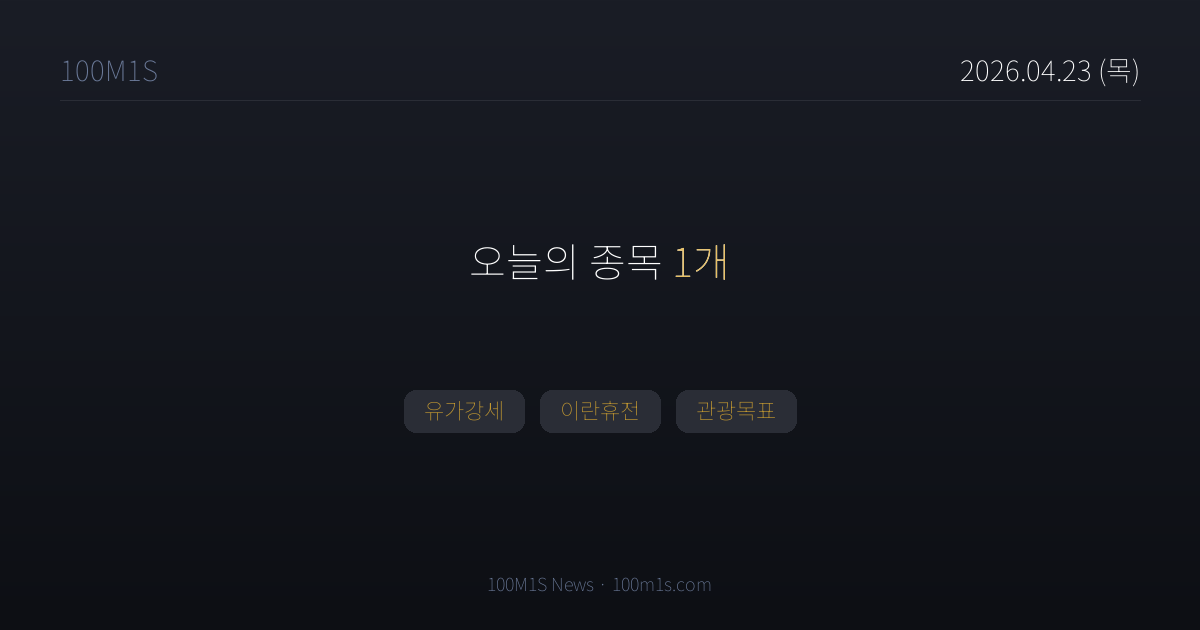
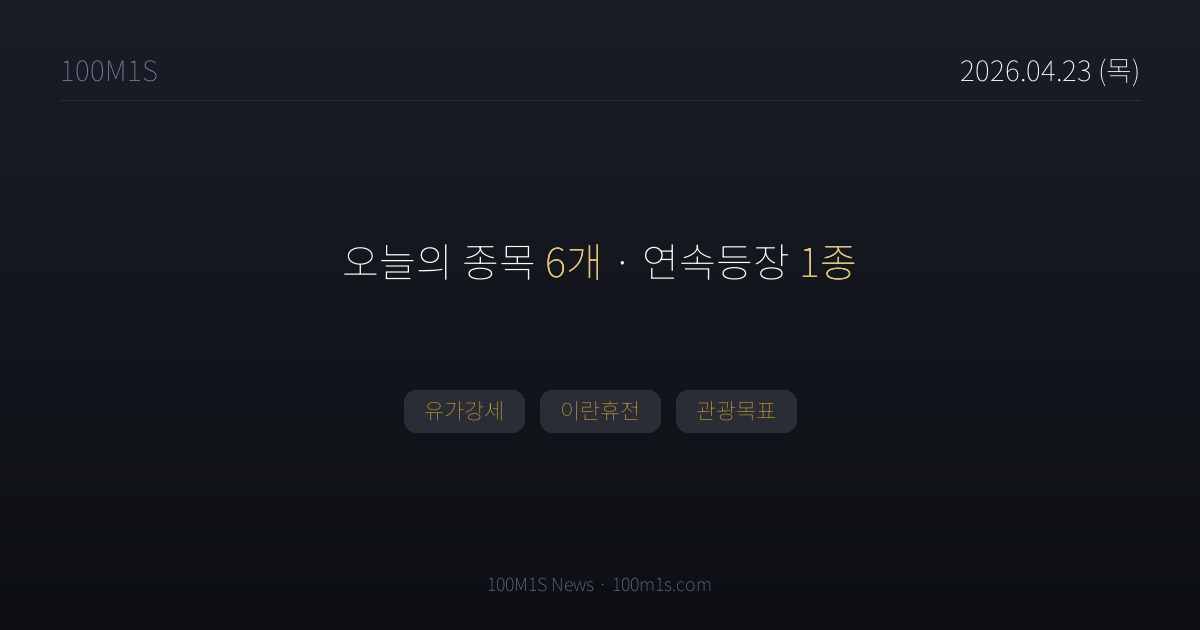
chore(news): 2026-04-23T09:23 pipeline

Changed region(s): [[0.2775, 0.3921, 0.7092, 0.4524]]

diff --git a/news/stock/2026-04-23/006910.html b/news/stock/2026-04-23/006910.html
@@ -1,0 +1,33 @@
+<!DOCTYPE html>
+<html lang="ko">
+<head>
+<meta charset="UTF-8">
+<title>보성파워텍 (006910) · 100M1S</title>
+<meta property="og:title" content="보성파워텍 (006910) · 100M1S">
+<meta property="og:description" content="구조용 금속제품, 탱크 및 증기발생기 제조업 · 오늘의 주목 종목">
+<meta property="og:image" content="https://100m1s.com/og/news/stock/2026-04-23/006910.png">
+<meta property="og:image:width" content="1200">
+<meta property="og:image:height" content="630">
+<meta property="og:url" content="https://100m1s.com/news/stock/2026-04-23/006910.html">
+<meta property="og:type" content="article">
+<meta name="twitter:card" content="summary_large_image">
+<meta name="twitter:image" content="https://100m1s.com/og/news/stock/2026-04-23/006910.png">
+<meta name="robots" content="noindex">
+<script>
+(function() {
+  var params = new URLSearchParams(location.search);
+  var date = params.get('date') || '2026-04-23';
+  var code = '006910';
+  var defaultName = '보성파워텍';
+  var rawHash = location.hash.replace(/^#/, '');
+  var nameFromHash = decodeURIComponent(rawHash).replace(/^stock-[A-Za-z0-9]+-?/, '');
+  var finalName = nameFromHash || defaultName;
+  var targetHash = '#stock-' + code + (finalName ? '-' + finalName : '');
+  location.replace('/news.html?date=' + encodeURIComponent(date) + targetHash);
+})();
+</script>
+</head>
+<body>
+<p>리다이렉트 중... <a href="/news.html?date=2026-04-23#stock-006910-보성파워텍">보성파워텍 (006910) 뉴스 보기</a></p>
+</body>
+</html>

diff --git a/news/stock/2026-04-23/006340.html b/news/stock/2026-04-23/006340.html
@@ -1,0 +1,33 @@
+<!DOCTYPE html>
+<html lang="ko">
+<head>
+<meta charset="UTF-8">
+<title>대원전선 (006340) · 100M1S</title>
+<meta property="og:title" content="대원전선 (006340) · 100M1S">
+<meta property="og:description" content="절연선 및 케이블 제조업 · 오늘의 주목 종목">
+<meta property="og:image" content="https://100m1s.com/og/news/stock/2026-04-23/006340.png">
+<meta property="og:image:width" content="1200">
+<meta property="og:image:height" content="630">
+<meta property="og:url" content="https://100m1s.com/news/stock/2026-04-23/006340.html">
+<meta property="og:type" content="article">
+<meta name="twitter:card" content="summary_large_image">
+<meta name="twitter:image" content="https://100m1s.com/og/news/stock/2026-04-23/006340.png">
+<meta name="robots" content="noindex">
+<script>
+(function() {
+  var params = new URLSearchParams(location.search);
+  var date = params.get('date') || '2026-04-23';
+  var code = '006340';
+  var defaultName = '대원전선';
+  var rawHash = location.hash.replace(/^#/, '');
+  var nameFromHash = decodeURIComponent(rawHash).replace(/^stock-[A-Za-z0-9]+-?/, '');
+  var finalName = nameFromHash || defaultName;
+  var targetHash = '#stock-' + code + (finalName ? '-' + finalName : '');
+  location.replace('/news.html?date=' + encodeURIComponent(date) + targetHash);
+})();
+</script>
+</head>
+<body>
+<p>리다이렉트 중... <a href="/news.html?date=2026-04-23#stock-006340-대원전선">대원전선 (006340) 뉴스 보기</a></p>
+</body>
+</html>

diff --git a/news/stock/2026-04-23/005935.html b/news/stock/2026-04-23/005935.html
@@ -1,0 +1,33 @@
+<!DOCTYPE html>
+<html lang="ko">
+<head>
+<meta charset="UTF-8">
+<title>삼성전자우 (005935) · 100M1S</title>
+<meta property="og:title" content="삼성전자우 (005935) · 100M1S">
+<meta property="og:description" content="삼성전자우 오늘의 종목 정보">
+<meta property="og:image" content="https://100m1s.com/og/news/stock/2026-04-23/005935.png">
+<meta property="og:image:width" content="1200">
+<meta property="og:image:height" content="630">
+<meta property="og:url" content="https://100m1s.com/news/stock/2026-04-23/005935.html">
+<meta property="og:type" content="article">
+<meta name="twitter:card" content="summary_large_image">
+<meta name="twitter:image" content="https://100m1s.com/og/news/stock/2026-04-23/005935.png">
+<meta name="robots" content="noindex">
+<script>
+(function() {
+  var params = new URLSearchParams(location.search);
+  var date = params.get('date') || '2026-04-23';
+  var code = '005935';
+  var defaultName = '삼성전자우';
+  var rawHash = location.hash.replace(/^#/, '');
+  var nameFromHash = decodeURIComponent(rawHash).replace(/^stock-[A-Za-z0-9]+-?/, '');
+  var finalName = nameFromHash || defaultName;
+  var targetHash = '#stock-' + code + (finalName ? '-' + finalName : '');
+  location.replace('/news.html?date=' + encodeURIComponent(date) + targetHash);
+})();
+</script>
+</head>
+<body>
+<p>리다이렉트 중... <a href="/news.html?date=2026-04-23#stock-005935-삼성전자우">삼성전자우 (005935) 뉴스 보기</a></p>
+</body>
+</html>

diff --git a/news/stock/2026-04-23/047040.html b/news/stock/2026-04-23/047040.html
@@ -1,0 +1,33 @@
+<!DOCTYPE html>
+<html lang="ko">
+<head>
+<meta charset="UTF-8">
+<title>대우건설 (047040) · 100M1S</title>
+<meta property="og:title" content="대우건설 (047040) · 100M1S">
+<meta property="og:description" content="건물 건설업 · 오늘의 주목 종목">
+<meta property="og:image" content="https://100m1s.com/og/news/stock/2026-04-23/047040.png">
+<meta property="og:image:width" content="1200">
+<meta property="og:image:height" content="630">
+<meta property="og:url" content="https://100m1s.com/news/stock/2026-04-23/047040.html">
+<meta property="og:type" content="article">
+<meta name="twitter:card" content="summary_large_image">
+<meta name="twitter:image" content="https://100m1s.com/og/news/stock/2026-04-23/047040.png">
+<meta name="robots" content="noindex">
+<script>
+(function() {
+  var params = new URLSearchParams(location.search);
+  var date = params.get('date') || '2026-04-23';
+  var code = '047040';
+  var defaultName = '대우건설';
+  var rawHash = location.hash.replace(/^#/, '');
+  var nameFromHash = decodeURIComponent(rawHash).replace(/^stock-[A-Za-z0-9]+-?/, '');
+  var finalName = nameFromHash || defaultName;
+  var targetHash = '#stock-' + code + (finalName ? '-' + finalName : '');
+  location.replace('/news.html?date=' + encodeURIComponent(date) + targetHash);
+})();
+</script>
+</head>
+<body>
+<p>리다이렉트 중... <a href="/news.html?date=2026-04-23#stock-047040-대우건설">대우건설 (047040) 뉴스 보기</a></p>
+</body>
+</html>

diff --git a/news/stock/2026-04-23/092220.html b/news/stock/2026-04-23/092220.html
@@ -1,0 +1,33 @@
+<!DOCTYPE html>
+<html lang="ko">
+<head>
+<meta charset="UTF-8">
+<title>KEC (092220) · 100M1S</title>
+<meta property="og:title" content="KEC (092220) · 100M1S">
+<meta property="og:description" content="반도체 제조업 · 오늘의 주목 종목">
+<meta property="og:image" content="https://100m1s.com/og/news/stock/2026-04-23/092220.png">
+<meta property="og:image:width" content="1200">
+<meta property="og:image:height" content="630">
+<meta property="og:url" content="https://100m1s.com/news/stock/2026-04-23/092220.html">
+<meta property="og:type" content="article">
+<meta name="twitter:card" content="summary_large_image">
+<meta name="twitter:image" content="https://100m1s.com/og/news/stock/2026-04-23/092220.png">
+<meta name="robots" content="noindex">
+<script>
+(function() {
+  var params = new URLSearchParams(location.search);
+  var date = params.get('date') || '2026-04-23';
+  var code = '092220';
+  var defaultName = 'KEC';
+  var rawHash = location.hash.replace(/^#/, '');
+  var nameFromHash = decodeURIComponent(rawHash).replace(/^stock-[A-Za-z0-9]+-?/, '');
+  var finalName = nameFromHash || defaultName;
+  var targetHash = '#stock-' + code + (finalName ? '-' + finalName : '');
+  location.replace('/news.html?date=' + encodeURIComponent(date) + targetHash);
+})();
+</script>
+</head>
+<body>
+<p>리다이렉트 중... <a href="/news.html?date=2026-04-23#stock-092220-KEC">KEC (092220) 뉴스 보기</a></p>
+</body>
+</html>

diff --git a/news/stock/2026-04-23.html b/news/stock/2026-04-23.html
@@ -3,7 +3,7 @@
 <head>
 <meta charset="UTF-8">
 <title>4월 23일 (목) 뉴스 — 100M1S</title>
-<meta property="og:title" content="4월 23일 (목) · 종목 1개">
+<meta property="og:title" content="4월 23일 (목) · 종목 6개">
 <meta property="og:description" content="유가강세, 이란휴전, 관광목표">
 <meta property="og:image" content="https://100m1s.com/og/news/stock/2026-04-23.png">
 <meta property="og:image:width" content="1200">
